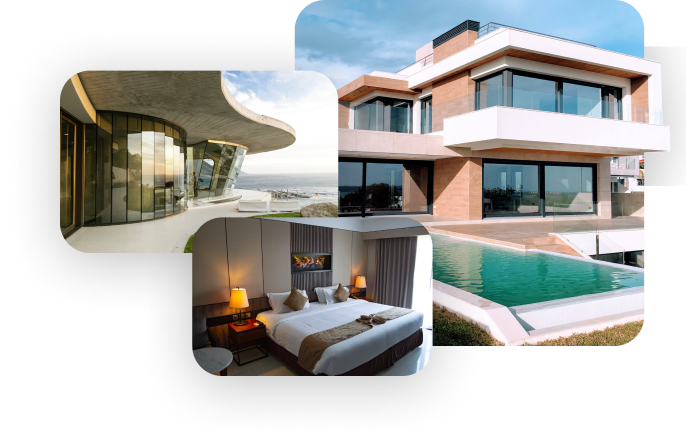
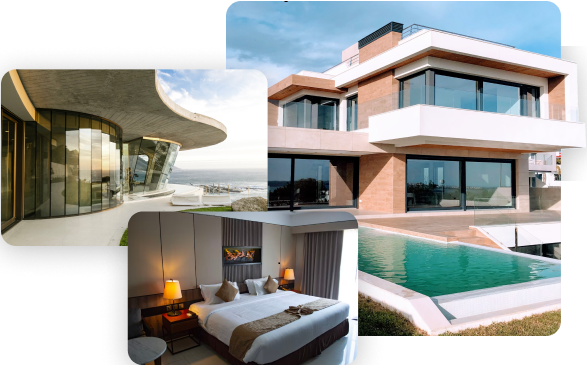
uploaded new photo hero

diff --git a/app/(Home)/(Main Page)/Hero/hero.tsx b/app/(Home)/(Main Page)/Hero/hero.tsx
@@ -22,15 +22,17 @@ const Hero = () => {
           </div>
         </div>
 
-        <div className="hidden md:flex items-center">
-          <ServerImage
-            src="/assets/photoMarket.png"
-            alt="N"
-            width="336"
-            height="206"
-            className='mr-[-2rem] mt-10'
-            priority={true}
-          />
+        <div className="hidden md:flex items-center justify-end">
+            <ServerImage
+              src="/assets/photoMarket.png"
+              alt="N"
+              width="336"
+              height="336"
+              className='cover mr-[-2rem] z-10'
+              // className='mr-[-2rem] mt-10'
+              priority={true}
+            />
+
           <div className="pl-10 pr-4 py-4 bg-white bg-opacity-5 rounded-xl border border-l-0 rounded-l-none border-teal-500">
             <div className={css.featuredProperties__title}>
               <span>New</span>

diff --git a/app/(Home)/(Main Page)/Hero/hero.module.css b/app/(Home)/(Main Page)/Hero/hero.module.css
@@ -25,12 +25,12 @@
   }
   
   .heroCommunity {
-    padding: 5rem 1rem;
+    padding: 5rem 0;
     max-width: 75.125rem;
     margin: 0 auto;
     display: flex;
     align-items: center;
-   /* justify-content: center; */
+   justify-content: space-between;
     gap: 3rem;
     position: relative;
     z-index: 99;
